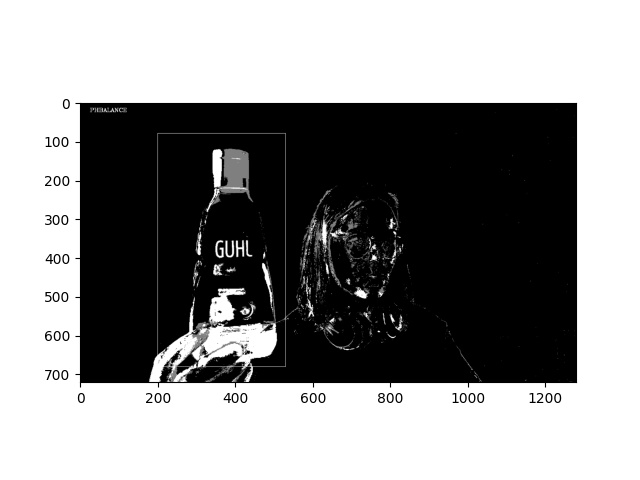
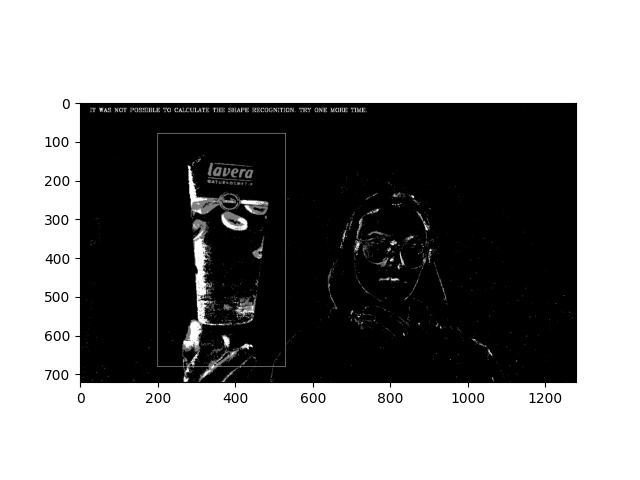
clean up

diff --git a/src/background_substraction/init_bg.py b/src/background_substraction/init_bg.py
@@ -1,43 +1,15 @@
 # importing libraries
 import numpy as np
 import cv2
+import time
 from matplotlib import pyplot as plt
 from Form_Detection import get_bottle
 
 
 font = cv2.FONT_HERSHEY_COMPLEX
 text = 'To recognize the shape of the bottle, put it in the white frame'
+text_img = 'Welcome to bottle shape recognition app!'
 frame = [200, 80, 530, 680]
-
-
-def get_image_shape(fgmask2):
-    plt.figure()
-    plt.imshow(fgmask2)
-    plt.savefig("test.jpg")
-    kernel = np.ones((7, 7), np.uint8)
-    # img1 = cv2.imread("test.jpg", 2)
-    closing = cv2.morphologyEx(fgmask2, cv2.MORPH_CLOSE, kernel)
-    # contours, _ = cv2.findContours(fgmask2, cv2.RETR_TREE, cv2.CHAIN_APPROX_SIMPLE)
-    # ret, bw_img = cv2.threshold(img1, 127, 255, cv2.THRESH_BINARY)
-    plt.figure()
-    plt.imshow(closing)
-    plt.savefig("closing.jpg")
-    print("Es handelt sich um die Shampoo Flasche BOTANICALS")
-
-
-def click_event(event, x, y, flags, param):
-    if event == cv2.EVENT_LBUTTONDOWN:
-        print("nothing")
-    if event == cv2.EVENT_RBUTTONDOWN:
-        red = img[y, x, 2]
-        blue = img[y, x, 0]
-        green = img[y, x, 1]
-        print(red, green, blue)
-        strRGB = str(red) + "," + str(green) + "," + str(blue)
-        font = cv2.FONT_HERSHEY_SIMPLEX
-        cv2.putText(img, strRGB, (x, y), font, 1, (240, 155, 55), 2)
-        cv2.imshow('original', img)
-
 
 # creating object
 fgbg = cv2.createBackgroundSubtractorMOG2()
@@ -50,6 +22,13 @@ while True:
     ret, img = cap.read()
     # apply mask for background subtraction
     fgmask = fgbg.apply(img)
+    cv2.putText(img,
+                text_img,
+                (25, 25),
+                font, 0.5,
+                (0, 0, 0),
+                1,
+                cv2.LINE_4)
 
     cv2.imshow('Original', img)
     cv2.putText(fgmask,
@@ -59,22 +38,21 @@ while True:
                 (255, 255, 255),
                 1,
                 cv2.LINE_4)
-    # set white frame
     rectangular = cv2.rectangle(fgmask, (frame[0], frame[1]), (frame[2], frame[3]), 255, 1)
     cv2.imshow('MOG2', fgmask)
-    cv2.setMouseCallback("Original", click_event)
 
     k = cv2.waitKey(30) & 0xff
     if k == 27:
         break
     if k == ord('t'):
-        kernel = np.ones((50, 50), np.uint8)
+        kernel = np.ones((100, 100), np.uint8)
         screenshot = cv2.morphologyEx(fgmask, cv2.MORPH_CLOSE, kernel)
         plt.imshow(fgmask, cmap='gray')
         plt.savefig("screenshot.jpg")
         original = cv2.imread('screenshot.jpg', 0).astype(np.float32)
-        text = get_bottle(original, frame)
+        text = get_bottle(original)
         text = str(text).upper()
+        text_img = text
         continue
 
 cap.release()

diff --git a/src/background_substraction/Form_Detection.py b/src/background_substraction/Form_Detection.py
@@ -27,7 +27,6 @@ def calculate_match(template, original, file_name):
 
 def get_bottle(screenshot):
     path = 'templates'
-    files = []
     # r=root, d=directories, f = files
     for r, d, f in os.walk(path):
         for file in f:
@@ -39,7 +38,6 @@ def get_bottle(screenshot):
                 plt.show()
                 plt.figure()
                 calculate_match(template_, screenshot, file)
-                files.append(os.path.join(r, file))
     sorted_list = sorted(scoring.values(), reverse=True)
     if sorted_list[0] < 0.15 or sorted_list[0] - sorted_list[1] < 0.05:
         text = "It was not possible to calculate the shape recognition. Try one more time."
